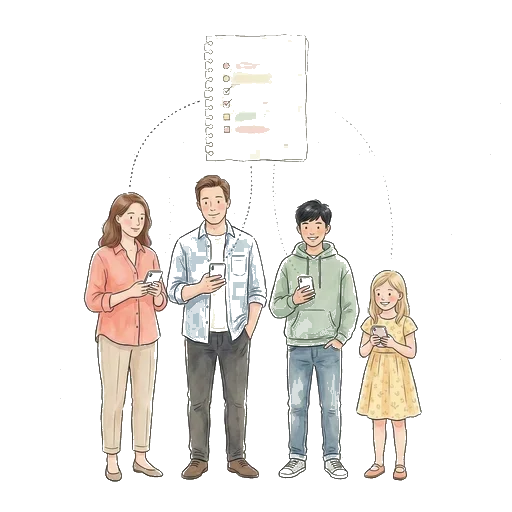
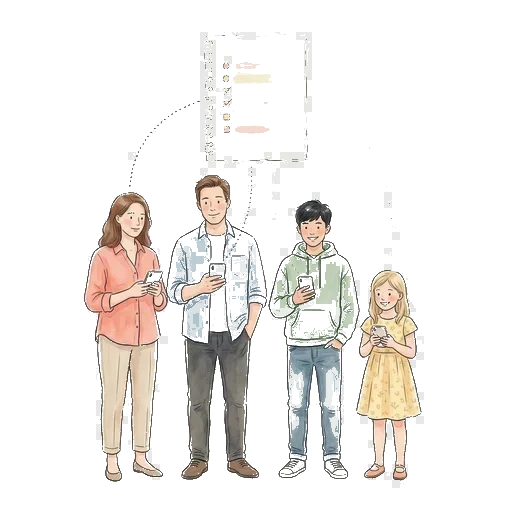
🎨 welcome: make feature card more transparent (0.65→0.45)
Reduces grey background appearance behind illustrations.

diff --git a/lib/screens/welcome/welcome_screen.dart b/lib/screens/welcome/welcome_screen.dart
@@ -542,7 +542,7 @@ class _FeatureCard extends StatelessWidget {
                   width: double.infinity,
                   padding: const EdgeInsets.symmetric(horizontal: kSpacingMedium, vertical: kSpacingLarge),
                   decoration: BoxDecoration(
-                    color: cs.surface.withValues(alpha: 0.65),
+                    color: cs.surface.withValues(alpha: 0.45),
                     border: Border(
                       top: BorderSide(color: cs.outlineVariant.withValues(alpha: 0.18), width: 0.9),
                       bottom: BorderSide(color: cs.outlineVariant.withValues(alpha: 0.18), width: 0.9),
